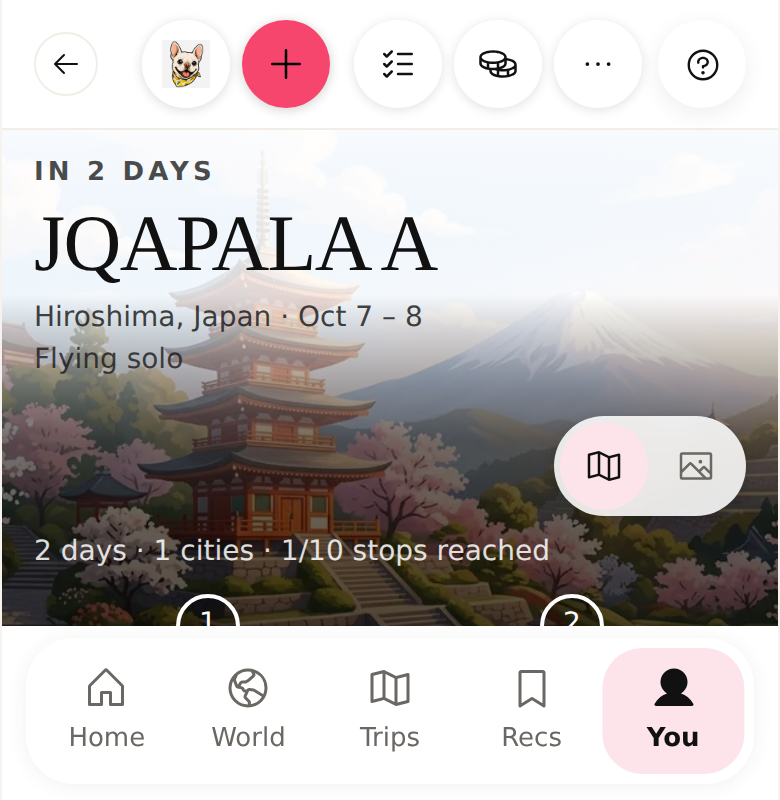
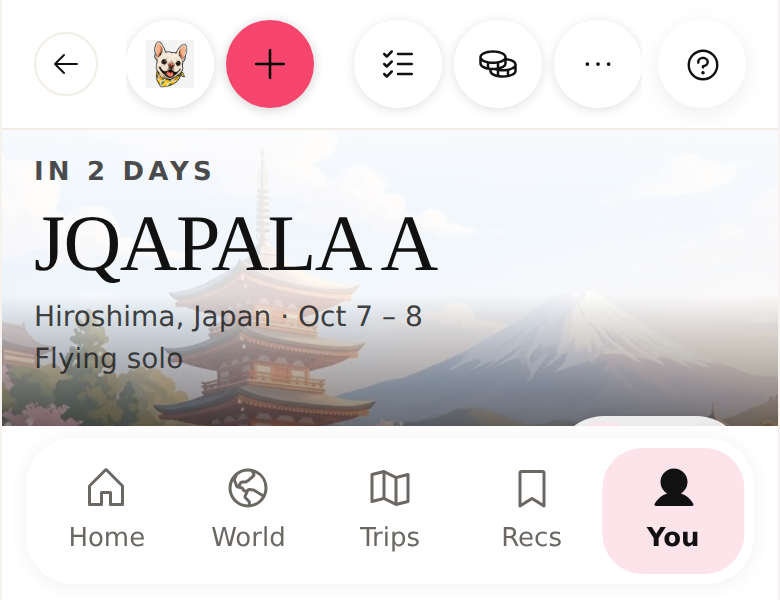
Trip header: hide the whole Home link with the brand, keep action buttons at 44px
Claude-Session: https://claude.ai/code/session_017ppDgWXV4rB4FZrGwyHhpK

diff --git a/src/components/AppShell.tsx b/src/components/AppShell.tsx
@@ -268,8 +268,11 @@ export function AppShell({
                     </span>
                   </Link>
                 ))}
-              <Link to="/" className="flex items-center gap-2">
-                <BrandMark version={APP_VERSION} slimWhenSlotFilled />
+              <Link
+                to="/"
+                className="flex items-center gap-2 group-has-[#app-header-slot:not(:empty)]/hdr:hidden"
+              >
+                <BrandMark version={APP_VERSION} />
               </Link>
             </div>
 
@@ -295,7 +298,10 @@ export function AppShell({
               </span>
             </div>
             {/* A page can put its own actions here (a trip: Plan with Béa, Add stop, To do), on the same line as the logo and help. */}
-            <div id="app-header-slot" className="order-2 min-w-0 flex-1 empty:hidden" />
+            <div
+              id="app-header-slot"
+              className="no-scrollbar order-2 -my-2 min-w-0 flex-1 overflow-x-auto py-2 empty:hidden"
+            />
           </header>
         )}
 

diff --git a/src/components/PageHeader.tsx b/src/components/PageHeader.tsx
@@ -2,20 +2,9 @@ import type { ReactNode, Ref } from "react";
 import logo from "@/assets/bea-logo.png";
 
 /** Shared identity row; the shell keeps the Home link and header actions. */
-export function BrandMark({
-  version,
-  large = false,
-  slimWhenSlotFilled = false,
-}: {
-  version?: string;
-  large?: boolean;
-  /** Hidden while the shell header carries a page's own actions on the same line. */
-  slimWhenSlotFilled?: boolean;
-}) {
+export function BrandMark({ version, large = false }: { version?: string; large?: boolean }) {
   return (
-    <span
-      className={`flex min-h-11 items-center gap-2${slimWhenSlotFilled ? " group-has-[#app-header-slot:not(:empty)]/hdr:hidden" : ""}`}
-    >
+    <span className="flex min-h-11 items-center gap-2">
       <img
         src={logo}
         alt="Béa logo"

diff --git a/src/styles.css b/src/styles.css
@@ -1495,6 +1495,7 @@
   );
 }
 .trip-hero-btn {
+  flex-shrink: 0;
   display: grid;
   place-items: center;
   width: 44px;
@@ -1532,6 +1533,7 @@
   color: var(--accent-foreground);
 }
 .trip-hero-plan {
+  flex-shrink: 0;
   display: inline-flex;
   align-items: center;
   gap: 6px;
@@ -1898,4 +1900,11 @@
   --world-stat-3: #b39445;
   --world-float-shadow: 0 4px 16px rgb(0 0 0 / 0.4);
   --world-place-fallback: #2b2723;
+}
+
+.no-scrollbar {
+  scrollbar-width: none;
+}
+.no-scrollbar::-webkit-scrollbar {
+  display: none;
 }

diff --git a/src/components/TripDetail.tsx b/src/components/TripDetail.tsx
@@ -1586,8 +1586,8 @@ export function TripDetail({
     >
       {headerSlot &&
         createPortal(
-          <div className="flex items-center justify-between gap-1.5">
-            <div className="flex min-w-0 items-center gap-1.5">
+          <div className="flex w-max min-w-full items-center justify-between gap-1.5">
+            <div className="flex items-center gap-1.5">
               <button
                 type="button"
                 data-guide="bea-plan"
